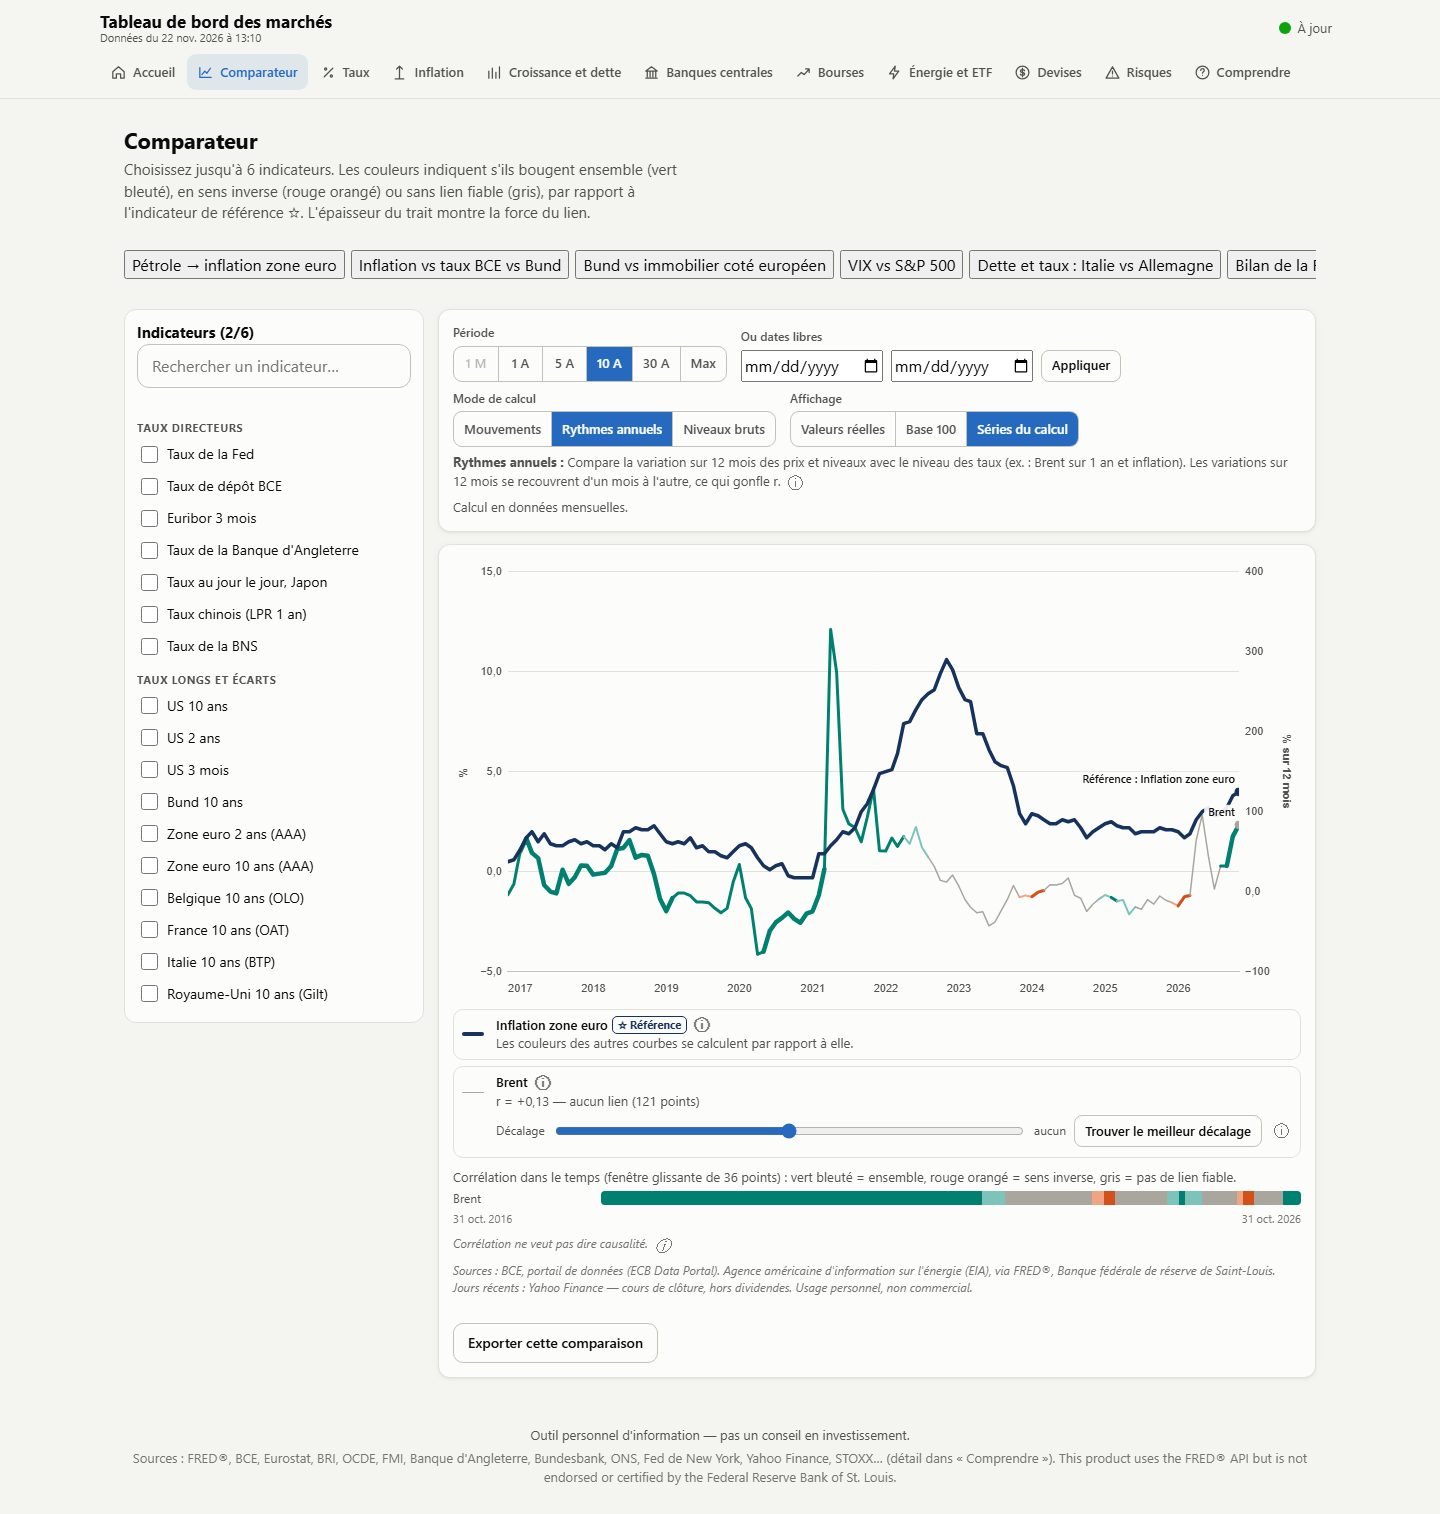
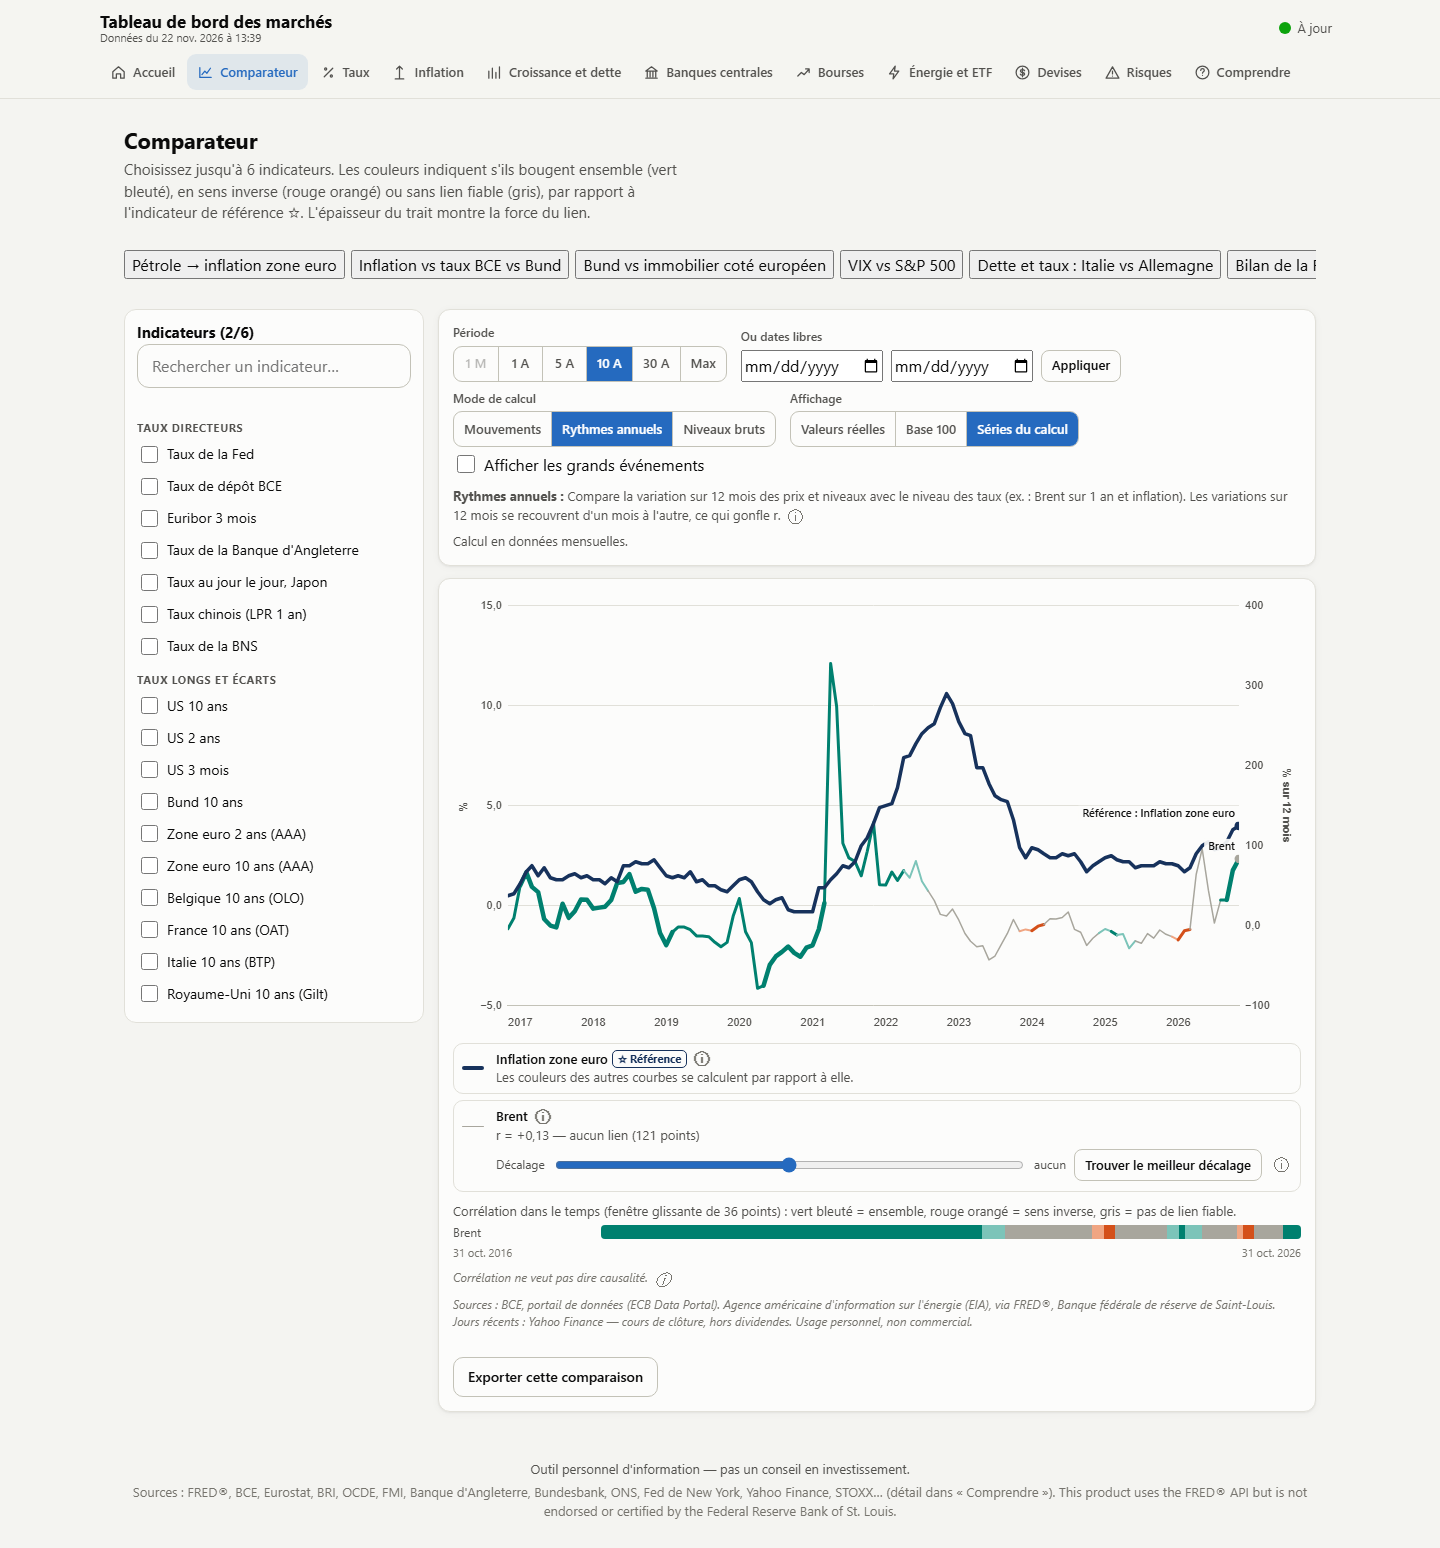
Étape 6 — captures PC et GSM de toutes les pages ; avancement

diff --git a/scripts/captures.py b/scripts/captures.py
@@ -36,7 +36,7 @@ def main() -> int:
         for nom_format in args.formats:
             options = {"viewport": FORMATS[nom_format], "locale": "fr-BE", "timezone_id": "Europe/Brussels"}
             if nom_format == "gsm":
-                options.update({"device_scale_factor": 2, "is_mobile": True, "has_touch": True})
+                options.update({"device_scale_factor": 1, "is_mobile": True, "has_touch": True})
             contexte = navigateur.new_context(**options)
             page = contexte.new_page()
             page.on("console", lambda m, f=nom_format: erreurs.append(f"[{f}] {page.url.split('#')[-1]} : {m.text}") if m.type == "error" else None)

diff --git a/AVANCEMENT.md b/AVANCEMENT.md
@@ -3,7 +3,7 @@
 Référence : SPEC_Tableau_de_bord_Marches.md, puis PLAN.md (plan de l'architecte, fait foi pour les choix techniques). Mettre ce fichier à jour à la fin de chaque étape.
 
 ## Étape en cours
-Étape 4 — fiches explicatives (6 rédacteurs en parallèle → docs/fiches/*.json, fusionnés dans js/fiches.js par scripts/fiches_vers_js.py).
+Étape 7 — relecture finale par le relecteur (Fable, xhigh) contre la checklist §12 ; puis corrections et remise (étape 8).
 
 ## Fait
 - Étape 0 : CLAUDE.md, AVANCEMENT.md, agents `.claude/agents/`, arborescence, git local (adresse « noreply »). Python 3.12, git, `gh` (connecté, droits `repo` + `workflow`), node 26 installés. Clé FRED dans `.env` (testée).
@@ -12,6 +12,8 @@ Référence : SPEC_Tableau_de_bord_Marches.md, puis PLAN.md (plan de l'architect
 - Déjà écrit : `js/stats.js` + tests node ; `scripts/commun.py`, `fusion.py`, `calculs.py`, `sources/fred.py`, `sources/sdmx.py` + tests pytest ; `css/style.css`, `js/outils.js` (regroupe format + dom + chargement), `index.html`, `config/evenements.yaml`, `lib/chart.umd.min.js` (4.5.0).
 - Étape 2 : collecte complète (scripts/collect.py, ecriture, resume, previsions, verifier, 13 modules de sources), 158 séries ok + 2 non disponibles justifiées (B11, D13_ZE) ; 94 tests pytest, 16 tests node ; revue des calculs par le relecteur (13 écarts, tous corrigés).
 - Étape 3 : interface complète (Accueil, Comparateur, 8 pages thématiques avec blocs du lot 3, Comprendre, État des données) ; dépôt public https://github.com/depgeor75-droid/tableau-marches ; site https://depgeor75-droid.github.io/tableau-marches/ ; secret FRED_API_KEY ; workflow testé (push, exécution manuelle : collecte GitHub identique au local, 158 ok, aucune boucle) ; zéro erreur de console en file:// et en ligne (12 pages × PC/GSM).
+- Étape 4 : 120 fiches (docs/fiches/*.json → js/fiches.js via scripts/fiches_vers_js.py) ; incertitudes des rédacteurs dans docs/fiches/incertitudes.md.
+- Étapes 5-6 : README, mettre_a_jour_local.bat, événement du 5 nov. 2026 ; captures de toutes les pages PC/GSM du site public (docs/captures/), zéro erreur de console en ligne et en file://.
 
 ## Décisions
 - Rediffusion (réponses de Georgy, 22/11/2026) : FRED → publier avec toutes les mentions exigées (usage personnel ; au pire, retour à une application locale) ; Yahoo et STOXX → publier avec mention ; FMI, BIS, Michigan, Banque du Japon → publier avec mention.
@@ -20,9 +22,7 @@ Référence : SPEC_Tableau_de_bord_Marches.md, puis PLAN.md (plan de l'architect
 - Voir PLAN.md §0 et §1 pour les autres décisions (Yahoo source unique, devises variante b, fichiers récents de 36 mois, etc.).
 
 ## Reste à faire
-- Intégrer les remarques de Georgy (point d'arrêt).
-- Étape 4 : fiches (redacteur-fiches, Sonnet high) → js/fiches.js (une fiche par valeur de `fiche` du catalogue + 16 transversales).
-- Étapes 6-8 : captures (scripts/captures.py), relecture finale (relecteur, Fable xhigh), README, remise.
+- Étape 7 : relecture finale et corrections ; étape 8 : remise à Georgy.
 
 ## Problèmes ouverts
 - Aucun pour l'instant. (Point d'arrêt passé le 22/11/2026 : Georgy valide le design et le comparateur ; événement du 5 nov. 2026 ajouté.)
